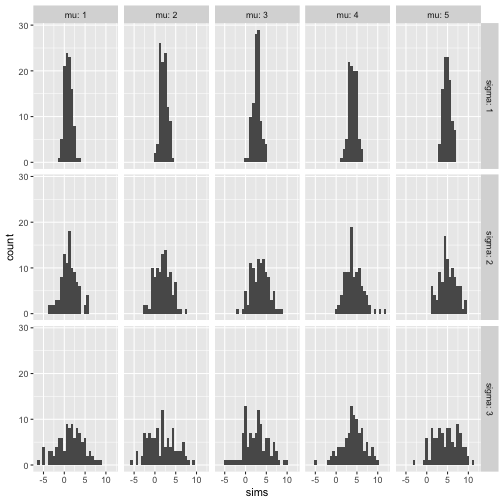
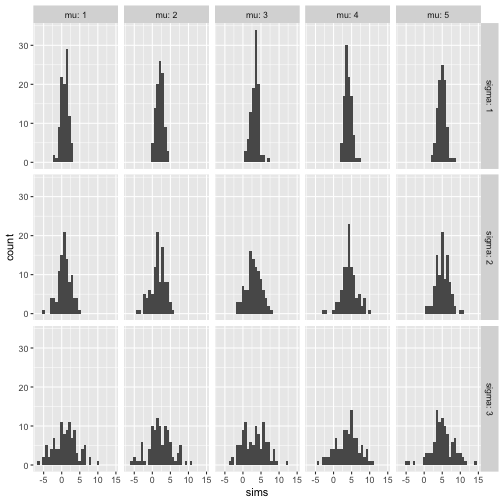
fix rticles slide

diff --git a/static/presentations/Misc/InvitedTalks/nist-sed/slides.html b/static/presentations/Misc/InvitedTalks/nist-sed/slides.html
@@ -340,8 +340,6 @@ install.packages("rticles")
 .Rmd file templates for 
 
 - Sage journals
-- Springer journals
-- Statistics in Medicine journal
 - The R Journal articles
 - Taylor &amp; Francis journals
 - Elsevier journals
@@ -515,7 +513,7 @@ Most important reason for using FP:
 &lt;/div&gt;
 
 ---
-# d. Design for Humans 👩💻 👨💻 👨💻
+# d. Design for Humans 👩💻 👩💻 👨💻
 
 "Computer efficiency is a secondary concern because the bottleneck in most data analysis is thinking time, not computing time." - [H. Wickham](https://cran.r-project.org/web/packages/tidyverse/vignettes/manifesto.html)
 
@@ -576,6 +574,26 @@ as_tibble(iris)
 
 ```r
 library(tidyverse)
+```
+
+```
+## ── Attaching packages ───────────────────────────────────────────────────────────────────── tidyverse 1.2.1 ──
+```
+
+```
+## ✔ ggplot2 3.1.0     ✔ purrr   0.3.2
+## ✔ tidyr   0.8.3     ✔ dplyr   0.8.1
+## ✔ readr   1.3.1     ✔ stringr 1.4.0
+## ✔ ggplot2 3.1.0     ✔ forcats 0.4.0
+```
+
+```
+## ── Conflicts ──────────────────────────────────────────────────────────────────────── tidyverse_conflicts() ──
+## ✖ dplyr::filter() masks stats::filter()
+## ✖ dplyr::lag()    masks stats::lag()
+```
+
+```r
 bb_dat &lt;- read_csv("https://raw.githubusercontent.com/tidyverse/tidyr/master/data-raw/billboard.csv")
 ```
 
@@ -953,7 +971,7 @@ glimpse(mysims)
 ## Variables: 3
 ## $ mu    &lt;int&gt; 1, 1, 1, 2, 2, 2, 3, 3, 3, 4, 4, 4, 5, 5, 5
 ## $ sigma &lt;int&gt; 1, 2, 3, 1, 2, 3, 1, 2, 3, 1, 2, 3, 1, 2, 3
-## $ sims  &lt;list&gt; [&lt;-0.20589944, 1.53380418, -0.54304907, 2.11368027, 0.604…
+## $ sims  &lt;list&gt; [&lt;0.17499533, 0.69008781, 2.37309155, 0.86424653, -0.2129…
 ```
 
 ---
